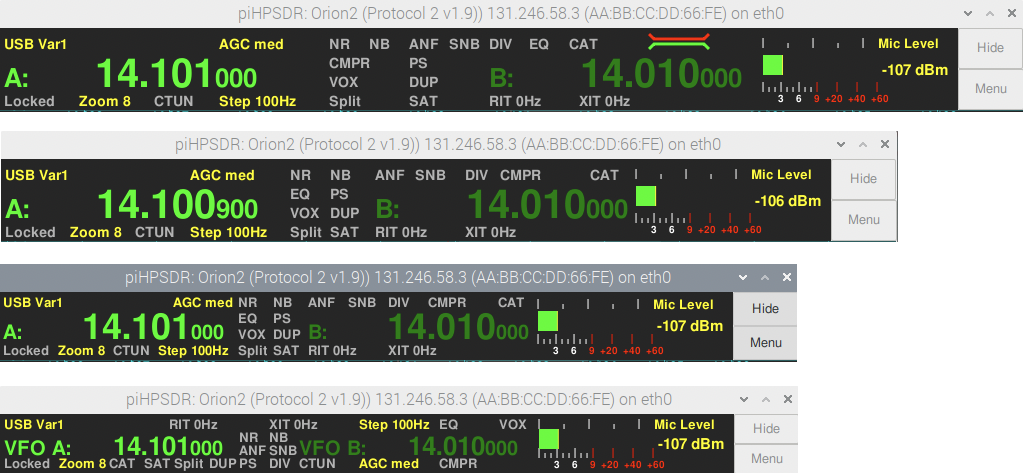
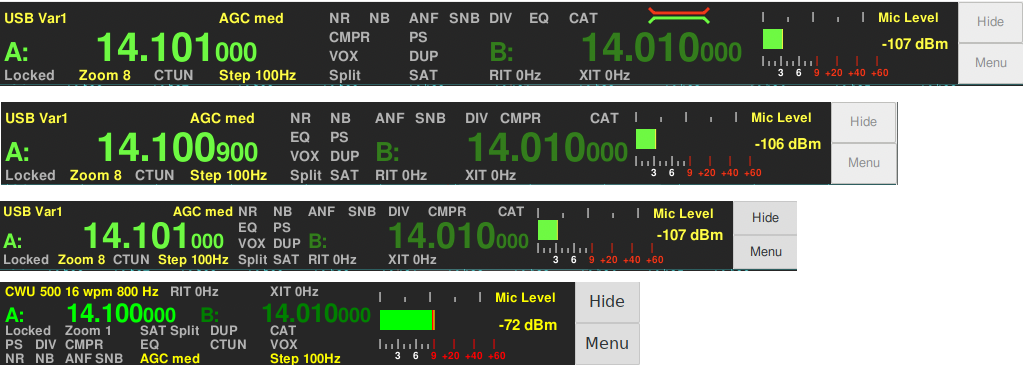
Manual: wrote chapter 9.

diff --git a/release/LatexManual/piHPSDR-Manual.tex b/release/LatexManual/piHPSDR-Manual.tex
@@ -1085,20 +1085,13 @@ via the main menu and the \bltt{Screen} button and is shown in Fig. \ref{fig:Scr
 \end{figure}
 
 The window width and height can be chosen with the spin buttons shown. The minimum
-values for width and height are 800 and 480, the maximum values are determined by
+values for width and height are 640 and 400, the maximum values are determined by
 the resolution of the monitor. If more than one monitor is attached, the dimension
 of the monitor on which the initial piHPSDR window was opened determines
 the maximum width and height. Changes made in the spin buttons become effective
 immediately. If piHPSDR is in full screen mode (see below), you can change the
 values of the window width and height, but they do not become effective until
 you leave the full screen mode.
-
-If the window width is decreased such that the VFO bar chosen does no longer fit,
-the first one in the list that does fit is automatically selected, and the
-current choice printed in the 
- pop-down menu \rett{Select VFO bar layout} is updated. This menu lets you choose
- the layout of the VFO
-bar. In Fig. \ref{fig:VFObarChoice} the pre-defined layouts are shown.
 
 \begin{figure}[h!]
 \center
@@ -1107,13 +1100,38 @@ bar. In Fig. \ref{fig:VFObarChoice} the pre-defined layouts are shown.
 \label{fig:VFObarChoice}
 \end{figure}
 
-The two largest ones require a window width of about 1000 and 900 pixels, while the
-two small ones can be used with a screen only 800 pixels wide. The VFO bar shown
-at the bottom of Fig. \ref{fig:VFObarChoice} represents the original piHPSDR layout,
-the second one from the bottom has larger characters for the VFO dials and therefore
-a few more pixels height. The VFO bar has been described in detail in chapter
+If the window width is decreased such that the VFO bar chosen does no longer fit,
+the first one in the list that does fit is automatically selected, and the
+current choice printed in the 
+ pop-down menu \rett{Select VFO bar layout} is updated. This menu lets you choose
+ the layout of the VFO
+bar. In Fig. \ref{fig:VFObarChoice} the pre-defined layouts are shown.
+
+
+
+These layouts require a screen size of 1010, 895, 795, and 635 pixels (from top to
+bottom).
+The VFO bar has been described in detail in chapter
 \ref{sec:VFObar}. If you choose a VFO bar layout that is wider than the current
 window width allows, the window with is automatically adjusted.
+
+\begin{figure}[h!]
+\center
+\includegraphics[width=9cm]{640x400.png}
+\caption{piHPSDR running in a 640 x 400 window.}
+\label{fig:640x400}
+\end{figure}
+
+Fig. \ref{fig:640x400} shows, as an example, piHPSDR running in a window as small
+as 640*400 pixels. It is admitted that this looks rather squeezed, and this
+will only be useful if a single receiver is run with no waterfall. However, for
+portable operations such small windows are often desired,
+if piHPSDR is to be run alongside with a logbook and/or digimode program on a small laptop.
+Note that the piHPSDR menus are designed to fit on a window 800*480 pixels large, so
+it is not recommended to run piHPSDR on a \textit{screen} that small. On the other hand,
+if piHPSDR is run on a laptop in a small 640*400 window, then menus may be larger than
+that but still fit well on the screen (thus hiding, momentarily, the window of,
+say, your logbook program).
 
 \rett{Stack receivers horizontally}. If checked, this puts the panels
 of the two receivers (if two receivers are used) side-by-side instead of on top
@@ -2161,6 +2179,7 @@ I personally never use it.
 \chapter{The Main Menu: menus for RX and TX}
 
 \section{The \texttt{FFT} (Signal Processing) Menu}
+
 \begin{figure}[h]
 \center
 \includegraphics[width=12cm]{FFTMenu.png}
@@ -2168,7 +2187,48 @@ I personally never use it.
 \label{fig:FFTMenu}
 \end{figure}
 
+The \bltt{FFT} menu sets parameters for the filters inside WDSP
+(and thus has no effect if using SoapySDR radios).
+Filter characteristics can be specified separately for the RX1 (and RX2, if
+running two receivers) and TX filters. Most users will
+very rarely need to invoke this menu, which is shown
+in Fig. \ref{fig:FFTMenu}.
+
+\rett{Filter Type}. Digital filters can be designed such that a signal within the
+passband leaves the filter in a shape as similar as possible
+to what went into the filter. This requires that the phase
+difference between input and output signal is a linear
+function of the frequency. Another desirable property
+of a linear filter is that the time delay between a signal
+going into a filter and what comes out is as small as
+possible. Unfortunately there some sort of uncertainty
+relation between these two properties, so you only can
+trade one for the other. The options for the filter type
+are thus \rett{Linear Phase} or \rett{Low Latency}.
+But note that there is a lot of latency in the HPSDR data
+processing which you cannot avoid, so ,,low'' latency
+is not really low. Therefore, the default option
+is \rett{Linear Phase}, and there should be little reason
+to change this.
+
+\rett{Filter Size}. This is the number of ,,taps'' of the digital
+filter. Increasing this size will inevitably increase the latency,
+but makes the filter edges steeper. The allowed values are
+powers of 2, and the minimum value equals the buffer size, which
+is hard-coded in piHPSDR to be 1024 (except for the transmitter in P2,
+where it is reduced to 512). The default value of 2048 should be
+fine in almost all cases, if you increase it, you can notice that
+the filter edges become little more ,,brick wall'' like.
+
 \section{The \texttt{Equalizer} Menu}
+
+In the \bltt{Equalizer} menu, you can modify the frequency response of
+the RX and TX audio. You can adjust the RX equalizer to your personal
+preferences for listening to the RX audio. The TX equalizer affects
+your transmitted signal. You can, for example, provide some extra
+amplification to the low-frequency part of your voice. The menu
+is shown in Fig. \ref{fig:EqualizerMenu}.
+
 \begin{figure}[h]
 \center
 \includegraphics[width=12cm]{EqualizerMenu.png}
@@ -2176,15 +2236,73 @@ I personally never use it.
 \label{fig:EqualizerMenu}
 \end{figure}
 
+Using \rett{Enable RX Equalizer} and \rett{Enable TX Equalizer},
+you can individually enable/disable the RX and TX equalizer.
+If the RX equalizer is enabled, the EQ indicator in the
+VFO bar, upon receiving, turns yellow and reads \rett{RxEQ}.
+If the TX equalizer is enabled, this indicator turns yellow
+while transmitting and reads \rett{TxEQ}. So while receiving,
+you cannot tell, from the VFO bar, whether the TX equalizer is 
+actually enabled or not!
+
+For both equalizers, there are four sliders which affect the
+overall gain (Preamp), and the amplification in the low/mid/high
+frequency range. Equalizer settings are saved with the mode, so
+if you adjust the Equaliziers when doing SSB, and then switch to
+DIGU, the equalizers are disabled and they resume their SSB
+settings upon going back to LSB/USB. This also applies to other
+modes such as CWU/CWL, where the TX equalizer has no meaning 
+anyway, and where the RX equalizer is normally not needed because
+CW filters usually are narrow.
+
 \section{The \texttt{Ant} (Antenna) Menu}
+
+The \bltt{Ant} menu, as shown in Fig. \ref{fig:ANTmenu}, 
+applies to HPSDR radios. For SoapySDR radios, the layout
+is much simpler because there are much fewer choices possible.
+
 \begin{figure}[h]
 \center
-\includegraphics[width=12cm]{AntMenu.png}
+\includegraphics[width=12cm]{ANTmenu.png}
 \caption{The ANT (antenna) menu.}
-\label{fig:AntMenu}
+\label{fig:ANTmenu}
 \end{figure}
  
+ Standard HPSDR radios have, in most cases, three main antenna jacks
+ denoted Ant1, Ant2, Ant3, which can be used both for receiving to 
+ the first ADC and
+ transmitting. Then there are additional antenna jacks (Ext1, Ext2, 
+ and Xvtr) which can only be used for receiving and are also connected
+ to the first ADC. If the radio has more than one ADC, the (RX only)
+ antenna jack, usually denoted RX2, is hard-wired to the second ADC.
+ 
+ For each band, one can now choose one (out the three) antennas for
+ transmitting and one (out of six) antennas for receiving. The main purpose
+ of this is the possibility to connect an additional receive-only antenna
+such as a beverage antenna which often has a better signal-to-noise
+ ration than standard antennas used for transmitting.
+ 
 \section{The \texttt{OC} (OpenCollector) Menu}
+
+Standard HPSDR radios have seven individually programmable outputs wired as
+open collector output. In the \bltt{OC} menu, you can specify, separately
+for each band, and separately for receive and transmit, which output should
+be ,,set''. This can be used to switch the band filters of an external PA
+or of an external RX preselector, to control an automatic antenna tuner,
+and many more things, since it is
+your external hardware which in the end has to make sense of the output
+bit pattern.
+
+To facilitate control of an automatic tuner, there are seven \rett{TUNE}
+bits which are ORed with the bit pattern chosen for TX on the actual band,
+as long as you are TUNEing with piHPSDR. Besides the \bltt{TUNE} action,
+there are the \bltt{Full TUNE} and \bltt{Memory Tune} actions which are
+functionally equivalent, except that the open collector tuning pattern
+is removed for \bltt{Full Tune} after the full tune delay, and for \bltt{Memory Tune}
+after the memory tune delay, which can also be specified in this menu.
+This can be used to send short tuning pulsed of varying length to the
+external automatic tuner at the beginning of the tuning.
+
 \begin{figure}[h]
 \center
 \includegraphics[width=12cm]{OCMenu.png}
